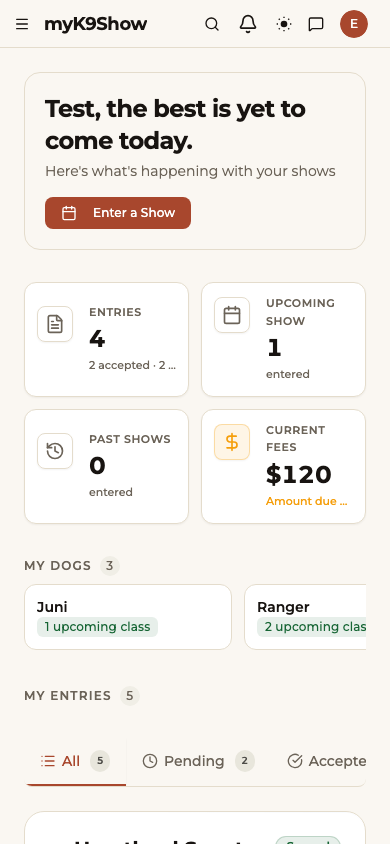
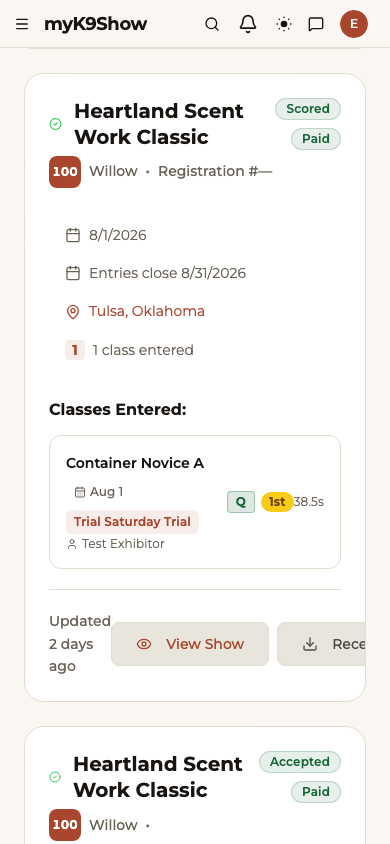
docs(guides): scroll-fix mobile E-09/10/11/12/14; fix E-14 checklist label
Previous mobile captures were cut off above the entry cards — the app
header + stats section consumes ~700px before the tab row, leaving cards
barely visible at the bottom of the 844px viewport. Fixes:

E-11: fresh navigation (no stale scroll) + scrollIntoView(block:start) on
      the All tab anchor → complete show card visible from title to footer
E-09: scrollIntoViewIfNeeded on tabpanel status badge → full pending entry
      card including 'Not Checked In' pill visible
E-10: same approach → full accepted entry card with tab row in frame
E-12: scrollIntoViewIfNeeded on first class element → Classes tab with
      Container Novice A and Exterior Excellent rows visible
E-14: scrollIntoViewIfNeeded on 'Not Checked In' span → pill centered in
      viewport with full entry card context above

Also fix exhibitor-guide.md checklist row E-14: 'check-in button' →
'Not Checked In status pill' (body and shot-list were already correct)

diff --git a/docs/user-guides/exhibitor-guide.md b/docs/user-guides/exhibitor-guide.md
@@ -263,7 +263,7 @@ All shots from `docs/training/screenshot-shot-list.md`. Status as of 2026-06-19:
 | E-11 | § 5 | My Shows — show card | ready |
 | E-12 | § 6 | Classes tab with run order | ready |
 | E-13 | § 7 | Show Today banner | blocked: date |
-| E-14 | § 7 | Entry card — check-in button | ready |
+| E-14 | § 7 | Entry card — "Not Checked In" status pill | ready |
 | E-15 | § 7 | Entry card — Checked In state | blocked: seed |
 | E-16 | § 8 | Entry card — Q result badge | blocked: seed |
 | E-17 | § 8 | Class results page | blocked: seed |
